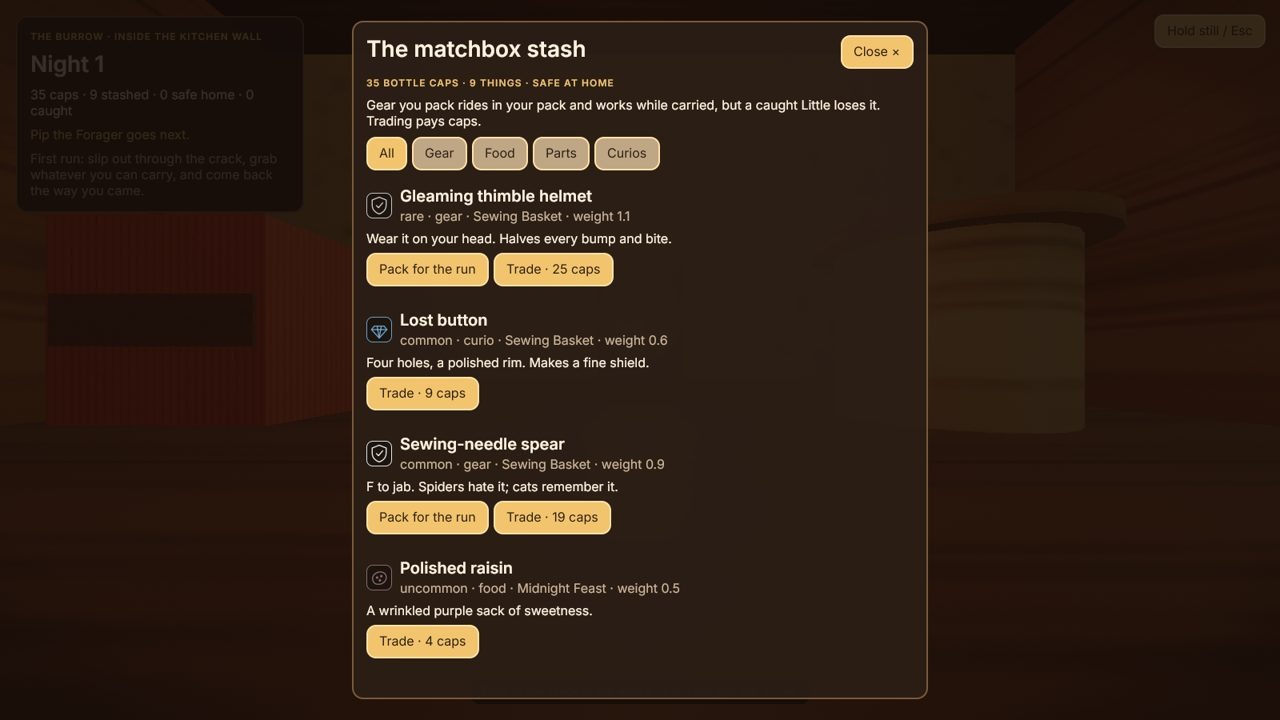
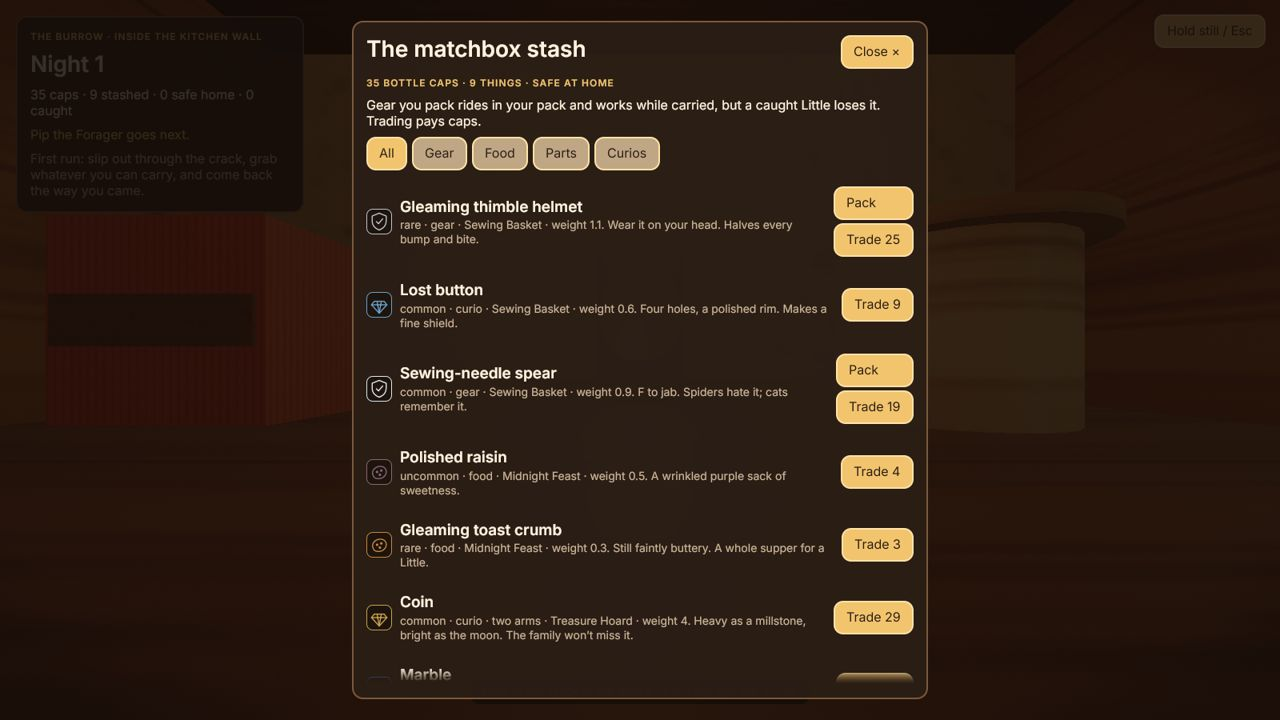
Crumb Run: readable stash rows, honest report, tidy pack weight; brief current
The stash lists each find in one compact row (facts and flavour on one muted line, short Pack and
Trade buttons beside it), so six fit where four did. The night report says "at the crack" for a
first-room return and explains a night with no caps instead of printing +0; the pack's weight shows
one decimal. README and the plan's content budget and handoff describe the nights and omens, the
basement and the Exterminator, the new upgrades, Moth and the collection. proofs/look refreshed:
stash, report, the Exterminator's bench.

Claude-Session: https://claude.ai/code/session_013QRD1Uoma5dcaZMX6Wth29

diff --git a/games/deepward/src/game/ui/GameUI.tsx b/games/deepward/src/game/ui/GameUI.tsx
@@ -94,7 +94,7 @@ function RunHud() {
     <RuneView anchor="bottom-right" safe inset={20} responsive={{ phone: { padding: [0, 0, 64, 0] } }}>
       <Frame width={240} responsive={{ phone: { width: width - 40, layout: "row", items: "center", justify: "between", padding: 10 } }}>
         <Tag>PACK</Tag>
-        <Text size={phone ? 18 : 24} family="Fredoka" text={bind(() => { const r = run(); if (r === null) return ""; const load = loadOf(r.pack, r.capacity, LITTLES[r.little]); return `${r.pack.length} things · ${load.mass}/${r.capacity}`; })} />
+        <Text size={phone ? 18 : 24} family="Fredoka" text={bind(() => { const r = run(); if (r === null) return ""; const load = loadOf(r.pack, r.capacity, LITTLES[r.little]); return `${r.pack.length} thing${r.pack.length === 1 ? "" : "s"} · ${Math.round(load.mass * 10) / 10}/${Math.round(r.capacity * 10) / 10}`; })} />
         <Text color={RED} text={bind(() => { const r = run(); return r !== null && twoHanded(r) ? "Two arms full: slow, no running" : ""; })} />
         {gear === "" ? null : <Row gap={4}>{gear.split(",").map(k => <ItemMark key={k} kind={k as ItemKind} size={24} />)}</Row>}
         <Button onPress={() => ctx.game.commands.run("deepward.pack", {})}>Repack / Tab</Button>
@@ -156,9 +156,9 @@ function StashSheet({ command, close }: { command: Command; close: () => void })
     <Row gap={6}>{(["all", "gear", "food", "part", "curio"] as const).map(f => <Button key={f} fill={filter === f ? GOLD : "#bfa684"} onPress={() => setFilter(f)}>{f === "all" ? "All" : f === "part" ? "Parts" : f === "curio" ? "Curios" : f[0]!.toUpperCase() + f.slice(1)}</Button>)}</Row>
     {shown.length === 0 ? <Text color={MUTED}>Empty shelves. Bring something home from the house.</Text> : shown.map(item => { const def = defOf(item), packed = home.bring.includes(item.id);
       return <Section key={item.id}>
-        <Row><ItemMark kind={kindOf(item)} /><RuneView grow={1} shrink gap={2}><Heading size={20}>{displayName(item)}</Heading><Text color={MUTED}>{`${item.rarity} · ${def.category}${def.bulky ? " · two arms" : ""}${def.noisy ? " · jingles" : ""}${def.set ? ` · ${SETS[def.set].name}` : ""} · weight ${item.mass}`}</Text></RuneView></Row>
-        <Text>{def.flavor}</Text>
-        <Row gap={6}>{def.gear !== undefined ? <Button onPress={() => command("bring", { uid: item.id, on: !packed })}>{packed ? "Packed / unpack" : "Pack for the run"}</Button> : null}<Button onPress={() => command("trade", { id: item.id })}>{`Trade · ${tradeValue(item)} caps`}</Button></Row>
+        {/* One compact row a find: what it is, its facts and flavour, and what you can do with it. */}
+        <Row><ItemMark kind={kindOf(item)} /><RuneView grow={1} shrink gap={2}><Heading size={19}>{displayName(item)}</Heading><Text color={MUTED} size={14}>{`${item.rarity} · ${def.category}${def.bulky ? " · two arms" : ""}${def.noisy ? " · jingles" : ""}${def.set ? ` · ${SETS[def.set].name}` : ""} · weight ${item.mass}. ${def.flavor}`}</Text></RuneView>
+          <RuneView gap={4}>{def.gear !== undefined ? <Button label={packed ? `Unpack ${displayName(item)}` : `Pack ${displayName(item)} for the run`} onPress={() => command("bring", { uid: item.id, on: !packed })}>{packed ? "Packed ✓" : "Pack"}</Button> : null}<Button label={`Trade ${displayName(item)} for ${tradeValue(item)} caps`} onPress={() => command("trade", { id: item.id })}>{`Trade ${tradeValue(item)}`}</Button></RuneView></Row>
       </Section>; })}
     <Heading>Sets</Heading>
     <Text color={MUTED}>Carry every piece home in one run: each piece is worth more together, and the set pays a bonus.</Text>
@@ -247,9 +247,9 @@ function ReportSheet({ close }: { close: () => void }) {
   const report = useStore(viewStore, v => v.report);
   if (report === null) return null;
   return <Sheet title="Home safe!" label="Night report" close={close}>
-    <Tag color={GREEN}>{`${report.clock} · ${report.rooms} ROOM${report.rooms === 1 ? "" : "S"} · ${report.depth} DEEP · OUT BY THE ${report.via === "dogdoor" ? "FLAP" : report.via.toUpperCase()}`}</Tag>
+    <Tag color={GREEN}>{`${report.clock} · ${report.rooms} ROOM${report.rooms === 1 ? "" : "S"} · ${report.depth === 0 ? "AT THE CRACK" : `${report.depth} DEEP`} · OUT BY THE ${report.via === "dogdoor" ? "FLAP" : report.via.toUpperCase()}`}</Tag>
     {report.items.length === 0 ? <Text>You came back empty-handed, but you came back.</Text> : <RuneView layout="grid" columns={2} responsive={{ phone: { columns: 1 } }} gap={6}>{report.items.map(i => <Row key={i.id}><ItemMark kind={i.kind} size={26} /><Text grow={1} shrink color={i.rarity === "common" ? CREAM : GOLD}>{i.name}</Text></Row>)}</RuneView>}
-    <Heading size={22} color={GOLD}>{`+${report.caps} bottle caps`}</Heading>
+    {report.caps > 0 ? <Heading size={22} color={GOLD}>{`+${report.caps} bottle caps`}</Heading> : <Text color={MUTED}>No bottle caps this time: trade finds at the stash, or bring a whole set home.</Text>}
     {report.sets.map(id => <Text key={id} color={GREEN}>{`Set complete: ${SETS[id as keyof typeof SETS].name}! ${SETS[id as keyof typeof SETS].flavor}`}</Text>)}
     {report.littles.map(id => <Text key={id} color={LITTLES[id].color}>{`${LITTLES[id].name} ${LITTLES[id].title} has moved into the burrow!`}</Text>)}
     <Button onPress={close}>Into the burrow</Button>

diff --git a/games/deepward/README.md b/games/deepward/README.md
@@ -15,10 +15,15 @@ The package id is still `deepward`. Run `bun --cwd=games/deepward run dev` from 
 - **Room after room.** A run is a seed. Every room is a path from the crack ("0", then "0-1" for the
   second door out of it), and the room's template, its finds, its hunters and its exits are a pure
   function of the seed and that path (`src/game/runGen.ts`). The house is built from
-  editor-authored room templates in `src/editor.scene.json` (eighteen: under the kitchen cabinets, the counter,
+  editor-authored room templates in `src/editor.scene.json` (twenty-one: under the kitchen cabinets, the counter,
   the pantry shelf, under the fridge, under the bookshelf, under the couch, the living-room rug, the
-  front hall, the toy corner, under the bed, the garage workbench, the attic). Deeper rooms roll
-  better finds and more hunters. The seed is saved, so a reload resumes the same house.
+  front hall, the toy corner, under the bed, the garage workbench, the attic, and the basement's cellar
+  steps, boiler room and Exterminator's bench). Deeper rooms roll better finds and more hunters. The
+  seed is saved, so a reload resumes the same house.
+- **Nights and omens.** Every night is a kind (quiet, thunderstorm, after the party, family away,
+  restless cat, spring clean, full moon, power cut, sleepover, heatwave) and carries one or two
+  omens (lucky penny, creaky floors, windows open, dropped shopping, light sleepers, clocks went back,
+  strong tea, a flat Roomba battery), each changing one number of the run.
 - **Doors.** Rooms join by gaps, drawer-pull climbs, counter-edge drops (bring a napkin parachute),
   charger-cable ziplines, the toy train (wait for it) and vents. Going back is usually slower.
 - **Ways out.** The crack you came from, and, deeper in, a mail slot (only if you travel light), a
@@ -27,21 +32,24 @@ The package id is still `deepward`. Run `bun --cwd=games/deepward run dev` from 
 - **The Littles.** Pip the Forager smells food and carries it at half weight. Bolt the Tinkerer sees
   and disarms mousetraps for springs. Wren the Scout is half as loud and reads every door ahead.
   Tuck the Brute carries two-handed finds without slowing. Dot the Collector sees shiny curios a
-  rarity finer. Old Fennel the Night Owl keeps a longer night. Two live in the burrow; the others
-  move in as it grows.
-- **Finds.** 43 kinds with flavour: food, parts, curios and gear. Gear works while it rides in your
+  rarity finer. Old Fennel the Night Owl keeps a longer night. Moth the Shadow is seen at half the
+  distance by every hunter. Two live in the burrow; the others move in as it grows.
+- **Finds.** 47 kinds with flavour: food, parts, curios and gear. Gear works while it rides in your
   pack: thimble helmet, sewing-needle spear (F), napkin parachute, paperclip grapple, button shield,
-  birthday-candle torch, rubber-band slingshot (G). Six sets (Sewing Basket, Junk Drawer, Midnight
-  Feast, Treasure Hoard, Toy Box, Attic Keepsakes) pay a bonus when carried home together. Size and weight are real:
+  birthday-candle torch, rubber-band slingshot (G). Seven sets (Sewing Basket, Junk Drawer, Midnight
+  Feast, Treasure Hoard, Toy Box, Attic Keepsakes, and the basement's Cellar Hoard) pay a bonus when
+  carried home together, and every different set banked makes every Little stronger for good. Size and weight are real:
   a cheese cube or a coin needs both arms and slows you.
 - **The house hunts.** The Cat prowls, listens, stalks what it heard, crouches with a wiggle and
   pounces where you stood; hide under a towel or dodge. The Roomba sweeps lanes on a schedule and
   swallows what it rolls over. Spiders web the corners. Mousetraps snap. A restless Kid sits up and
   looks; held in sight, they pick you up and keep your pack in the toy box, which you can raid on a
   later night. The dog barks and wakes everything. Someone getting up for water turns the light on.
+  Deep in the basement the Exterminator walks his beat: stay out of his torch beam, and when the
+  canister hisses, get clear before the spray hangs where you stood.
 - **The burrow.** Bank finds in the matchbox stash, trade for bottle caps, build the larder, map
-  room, satchel loft and trophy shelf, craft gear at the workbench and chart the kid's bedroom, the
-  garage and the attic.
+  room, satchel loft, trophy shelf, slipper workshop, wind-up clock and herb cabinet, craft gear at
+  the workbench and chart the kid's bedroom, the garage, the attic and, last, the basement.
 
 Controls: WASD, Shift to run, C or Ctrl to sneak, E to interact, Tab for the pack, F to jab, G to
 fling, Esc to pause.

diff --git a/games/deepward/PLAN.md b/games/deepward/PLAN.md
@@ -98,9 +98,10 @@ Genres: extraction. 16/16 proven.
 `home: 1, caps: 0, stash: 0, littles: 2, zones: 2, upgrades: 1`.
 
 ### Content budget
-18 room templates in 5 zones plus the burrow; 43 item kinds (8 food, 10 parts, 16 curios, 7 gear,
-bottle caps) in 6 sets; 6 Littles; 7 threats (Cat, Roomba, spider, mousetrap, Kid, dog, lights);
-6 connector kinds; 4 exit kinds; 5 burrow upgrades, 5 recipes, 3 charts.
+21 room templates in 6 zones plus the burrow; 47 item kinds (8 food, 11 parts, 20 curios, 7 gear,
+bottle caps) in 7 sets; 7 Littles; 8 threats (Cat, Roomba, spider, mousetrap, Kid, dog, lights, the
+Exterminator); 10 kinds of night and 8 omens; 6 connector kinds; 4 exit kinds; 8 burrow upgrades,
+5 recipes, 4 charts; 4 collection thresholds.
 
 ### Systems
 - Procedural house (`runGen.ts`): probe `depth`, `rooms`, `deepest`.
@@ -176,7 +177,17 @@ hunters held off. The stash capture seeds a few finds; set rows count what is st
 dark finds' marks are lifted to stay readable; each Little in the nook shows carry, pace and noise.
 `proofs/look/` adds the animated Cat, under the bed, the workbench, the cabinets, stash and nook.
 
-Next: rooms with a dog (front hall, workbench, garage bikes) cannot frame round a body that size,
-so their overviews show part of it close; the dog keeps the pack's own colours; the stash lists each
-find on its own tall row (long once the stash fills); tilted panels (the sink cupboard door) still
-fill some overviews.
+Depth round: three more nights (power cut, sleepover, heatwave) and eight omens rolled on top of the
+night, folded into one twist (`twistOf`). The basement is the endgame: charted after the attic, its
+three rooms open only five or more rooms deep, and the Exterminator walks it (a torch that sweeps
+and turns to noise, a hiss as he aims, a spray cloud that cover does not stop; capture state
+`exterminator`). The Cellar Hoard set rolls only there. The slipper workshop, wind-up clock and herb
+cabinet; Moth the Shadow (moves in after a basement find is banked); the collection (every different
+set banked adds carry, then health, for every Little). Guidance runs on to the basement and the
+collection. Old saves migrate: new upgrades and the cellar milestone read as not yet reached. The
+stash lists finds in compact rows; the report says "at the crack" and explains a capless night;
+pack weight shows one decimal. RunLayers no longer re-renders every tick. Tests: 53 in the package.
+
+Next: rooms with a dog (front hall, workbench, garage bikes) cannot frame round a body that size; the
+Exterminator is procedural (boots, coveralls, canister, torch) and reads best side-on; omens have no
+icon of their own; the basement has three rooms and could take a fourth with its own exit kind.
